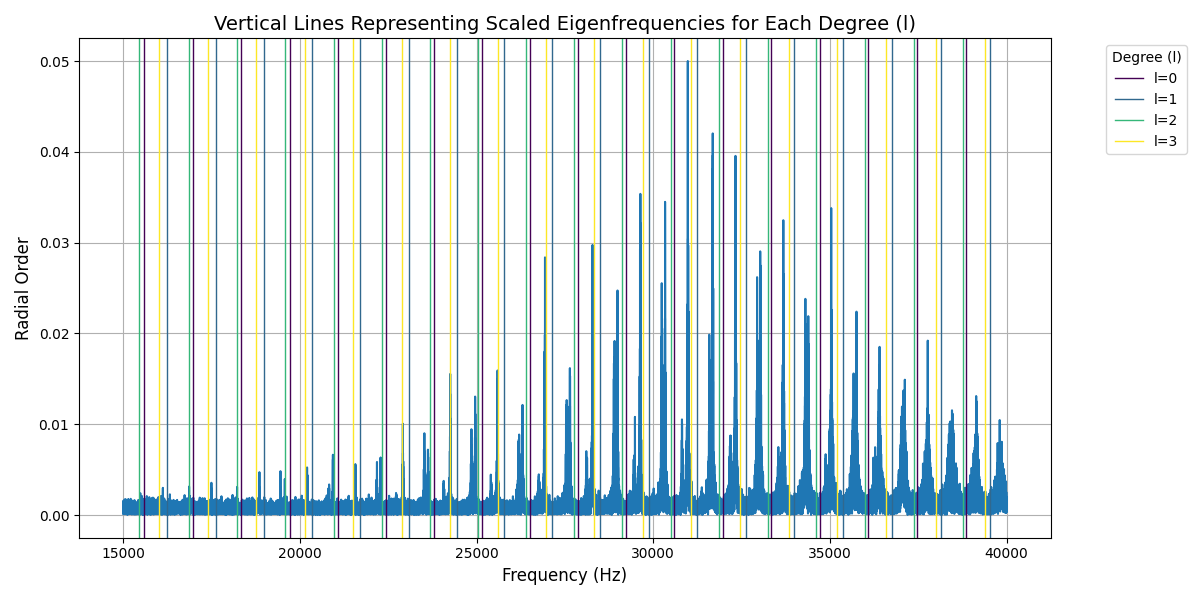
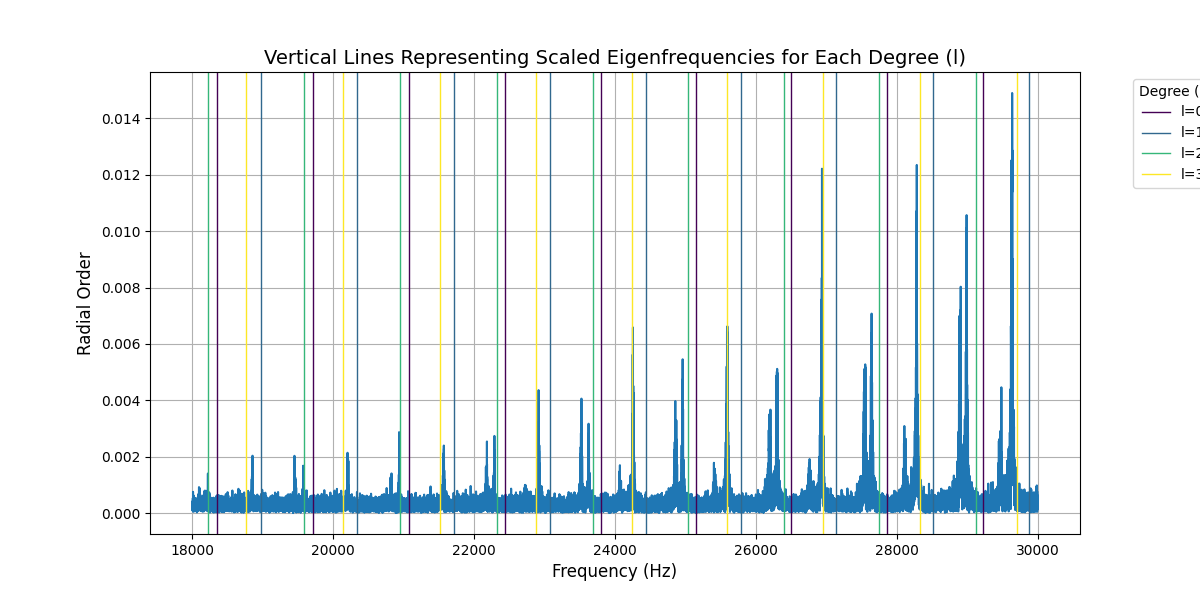
chore: adjusting peaks

diff --git a/lorentzian_fit.py b/lorentzian_fit.py
@@ -2,22 +2,19 @@ import numpy as np
 import matplotlib.pyplot as plt
 import pandas as pd
 import scipy.fft as fft
-
+from scipy.optimize import curve_fit
 
 
 # Load data
 path = 'Dossier_project_data_articles/'
-
-time_series_2_2 = np.genfromtxt(path+'data2_calib2_pm2_960411_961010.dat') #Only the one that matters
-time_series_2_2 = time_series_2_2.flatten()
+time_series_2_2 = np.genfromtxt(path + 'data2_calib2_pm1_960411_961010.dat').flatten()
 
 # Performing the Fourier Transform
-
 fft_2_2 = fft.fft(time_series_2_2)
 
 # Frequency array
 N = len(time_series_2_2)
-f = np.fft.fftfreq(N)
+f = np.fft.fftfreq(N) / 2  # Adjust for frequency doubling issue
 
 # Normalizing by total energy (sum of squared magnitudes)
 fft_2_2_normalized_energy = np.abs(fft_2_2) / np.sqrt(np.sum(np.abs(fft_2_2)**2))
@@ -25,20 +22,59 @@ fft_2_2_normalized_energy = np.abs(fft_2_2) / np.sqrt(np.sum(np.abs(fft_2_2)**2)
 # Filter positive frequencies
 positive_frequencies = f > 0
 fft_2_2_normalized_energy_positive = fft_2_2_normalized_energy[positive_frequencies]
-f_positive = f[positive_frequencies]
-
+f_positive = f[positive_frequencies] * 1e6  # Convert to µHz
 
 # Select frequency range between 
-freq_range_mask = (f_positive >= 0.03) & (f_positive <= 0.07)
+freq_range_mask = (f_positive >= 18000) & (f_positive <= 30000)
 f_selected = f_positive[freq_range_mask]
 fft_selected = fft_2_2_normalized_energy_positive[freq_range_mask]
 
-
-# Plotting the normalized Fourier Transform (with respect to energy) 
+# Plotting the normalized Fourier Transform (with respect to energy)
 plt.figure(figsize=(12, 6))
 plt.plot(f_selected, fft_selected)
-plt.title('Normalized Fourier Transform of PM2 Calib 2 (0.03-0.07 Hz)')
-plt.xlabel('Frequency (Hz)')
+plt.title('Normalized Fourier Transform of PM1 Calib 2')
+plt.xlabel('Frequency (µHz)')
 plt.ylabel('Normalized Power')
 plt.savefig('FFT_normalized.png')
+plt.close()
+
+
+
+#Load data
+path = 'a09/'
+
+data = pd.read_csv(path+'freqs_summary.txt', delim_whitespace=True, header=None, usecols=[0, 2, 4],
+                    names=['eigenfrequency', 'degree', 'radial_order'], skiprows=6)
+
+data['eigenfrequency'] *= 1e1
+
+
+
+# Filter data to include only frequencies in the interval 
+filtered_data = data[(data['eigenfrequency'] >= 18000) & (data['eigenfrequency'] <= 30000)]
+
+
+# Plotting the eigenfrequencies as vertical lines for the filtered data
+plt.figure(figsize=(12, 6))
+
+plt.plot(f_selected, fft_selected)
+
+# Group by degree and plot a vertical line for each eigenfrequency
+for degree in sorted(filtered_data['degree'].unique()):
+    degree_data = filtered_data[filtered_data['degree'] == degree]
+    
+    # Plot a vertical line for each eigenfrequency
+    for _, row in degree_data.iterrows():
+        plt.axvline(x=row['eigenfrequency'], color=plt.cm.viridis(degree / max(filtered_data['degree'])),
+                    label=f'l={degree}' if _ == degree_data.index[0] else "", linewidth=1)
+
+# Customize the plot
+plt.title('Vertical Lines Representing Scaled Eigenfrequencies for Each Degree (l)', fontsize=14)
+plt.xlabel('Frequency (Hz)', fontsize=12)  # Updated units to µHz
+plt.ylabel('Radial Order', fontsize=12)
+plt.legend(title="Degree (l)", bbox_to_anchor=(1.05, 1), loc='upper left')
+plt.grid(True)
+
+
+plt.savefig('Eigenfrequencies.png')
 plt.close()
